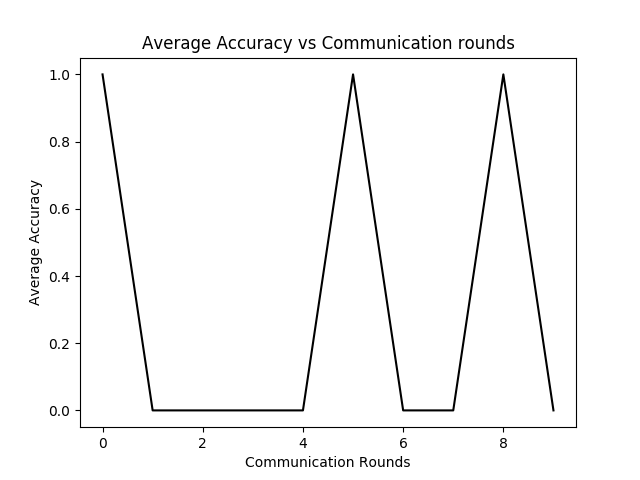
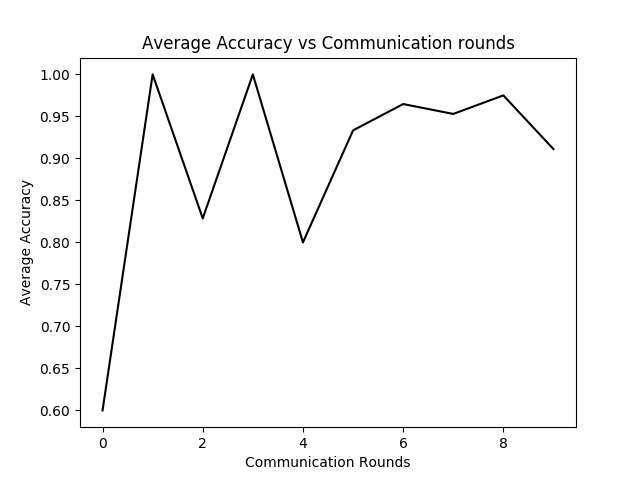
update scripts for cifar unequal niid and new experiment results

diff --git a/src/federated_main.py b/src/federated_main.py
@@ -77,8 +77,8 @@ if __name__ == '__main__':
     lines = ['Options:', str(args), 'Global model:', str(global_model)]
     for epoch in tqdm(range(args.epochs)):
         local_weights, local_losses = [], []
-        print(f'\n | Global Training Round : {epoch+1} |\n')
-        lines.append(f'\n | Global Training Round : {epoch+1} |\n')
+        print('\n | Global Training Round : {} |\n'.format(epoch+1))
+        lines.append('\n | Global Training Round : {} |\n'.format(epoch+1))
 
         global_model.train()
         m = max(int(args.frac * args.num_users), 1)
@@ -118,19 +118,19 @@ if __name__ == '__main__':
         # print global training loss after every 'i' rounds
         if (epoch+1) % print_every == 0:
             print(f' \nAvg Training Stats after {epoch+1} global rounds:')
-            print(f'Training Loss : {np.mean(np.array(train_loss))}')
+            print('Training Loss : {}'.format(np.mean(np.array(train_loss))))
             print('Train Accuracy: {:.2f}% \n'.format(100*train_accuracy[-1]))
-            lines.append(f' \nAvg Training Stats after {epoch+1} global rounds:')
-            lines.append(f'Training Loss : {np.mean(np.array(train_loss))}')
+            lines.append(' \nAvg Training Stats after {epoch+1} global rounds:')
+            lines.append('Training Loss : {}'.format(np.mean(np.array(train_loss))))
             lines.append('Train Accuracy: {:.2f}% \n'.format(100*train_accuracy[-1]))
 
     # Test inference after completion of training
     test_acc, test_loss = test_inference(args, global_model, test_dataset)
 
-    print(f' \n Results after {args.epochs} global rounds of training:')
+    print(' \n Results after {} global rounds of training:'.format(args.epochs))
     print("|---- Avg Train Accuracy: {:.2f}%".format(100*train_accuracy[-1]))
     print("|---- Test Accuracy: {:.2f}%".format(100*test_acc))
-    lines.append(f' \n Results after {args.epochs} global rounds of training:')
+    lines.append(' \n Results after {} global rounds of training:'.format(args.epochs))
     lines.append("|---- Avg Train Accuracy: {:.2f}%".format(100*train_accuracy[-1]))
     lines.append("|---- Test Accuracy: {:.2f}%".format(100*test_acc))
 

diff --git a/src/sampling.py b/src/sampling.py
@@ -35,7 +35,7 @@ def mnist_noniid(dataset, num_users):
     idx_shard = [i for i in range(num_shards)]
     dict_users = {i: np.array([]) for i in range(num_users)}
     idxs = np.arange(num_shards*num_imgs)
-    labels = dataset.train_labels.numpy()
+    labels = dataset.targets.numpy()
 
     # sort labels
     idxs_labels = np.vstack((idxs, labels))
@@ -52,7 +52,7 @@ def mnist_noniid(dataset, num_users):
     return dict_users
 
 
-def mnist_noniid_unequal(dataset, num_users):
+def mnist_noniid_unequal(dataset, num_users, cifar=False):
     """
     Sample non-I.I.D client data from MNIST dataset s.t clients
     have unequal amount of data
@@ -61,12 +61,16 @@ def mnist_noniid_unequal(dataset, num_users):
     :returns a dict of clients with each clients assigned certain
     number of training imgs
     """
+
     # 60,000 training imgs --> 50 imgs/shard X 1200 shards
     num_shards, num_imgs = 1200, 50
+    # add condition to be reused by cifar
+    if cifar:
+        num_shards, num_imgs = 1000, 50
     idx_shard = [i for i in range(num_shards)]
     dict_users = {i: np.array([]) for i in range(num_users)}
     idxs = np.arange(num_shards*num_imgs)
-    labels = dataset.train_labels.numpy()
+    labels = np.array(dataset.targets)
 
     # sort labels
     idxs_labels = np.vstack((idxs, labels))
@@ -74,7 +78,7 @@ def mnist_noniid_unequal(dataset, num_users):
     idxs = idxs_labels[0, :]
 
     # Minimum and maximum shards assigned per client:
-    min_shard = 1
+    min_shard = 1 
     max_shard = 30
 
     # Divide the shards into random chunks for every client
@@ -169,7 +173,7 @@ def cifar_noniid(dataset, num_users):
     idx_shard = [i for i in range(num_shards)]
     dict_users = {i: np.array([]) for i in range(num_users)}
     idxs = np.arange(num_shards*num_imgs)
-    # labels = dataset.train_labels.numpy()
+    # labels = dataset.targets.numpy()
     labels = np.array(dataset.targets)
 
     # sort labels

diff --git a/src/update.py b/src/update.py
@@ -46,9 +46,9 @@ class LocalUpdate(object):
         trainloader = DataLoader(DatasetSplit(dataset, idxs_train),
                                  batch_size=self.args.local_bs, shuffle=True)
         validloader = DataLoader(DatasetSplit(dataset, idxs_val),
-                                 batch_size=int(len(idxs_val)/10), shuffle=False)
+                                 batch_size=len(idxs_val), shuffle=False) #remove int(len(idxs_val)/10)
         testloader = DataLoader(DatasetSplit(dataset, idxs_test),
-                                batch_size=int(len(idxs_test)/10), shuffle=False)
+                                batch_size=len(idxs_test), shuffle=False)
         return trainloader, validloader, testloader
 
     def update_weights(self, model, global_round):

diff --git a/src/utils.py b/src/utils.py
@@ -35,7 +35,7 @@ def get_dataset(args):
             # Sample Non-IID user data from Mnist
             if args.unequal:
                 # Chose uneuqal splits for every user
-                raise NotImplementedError()
+                user_groups = mnist_noniid_unequal(train_dataset, args.num_users, cifar=True)
             else:
                 # Chose euqal splits for every user
                 user_groups = cifar_noniid(train_dataset, args.num_users)
